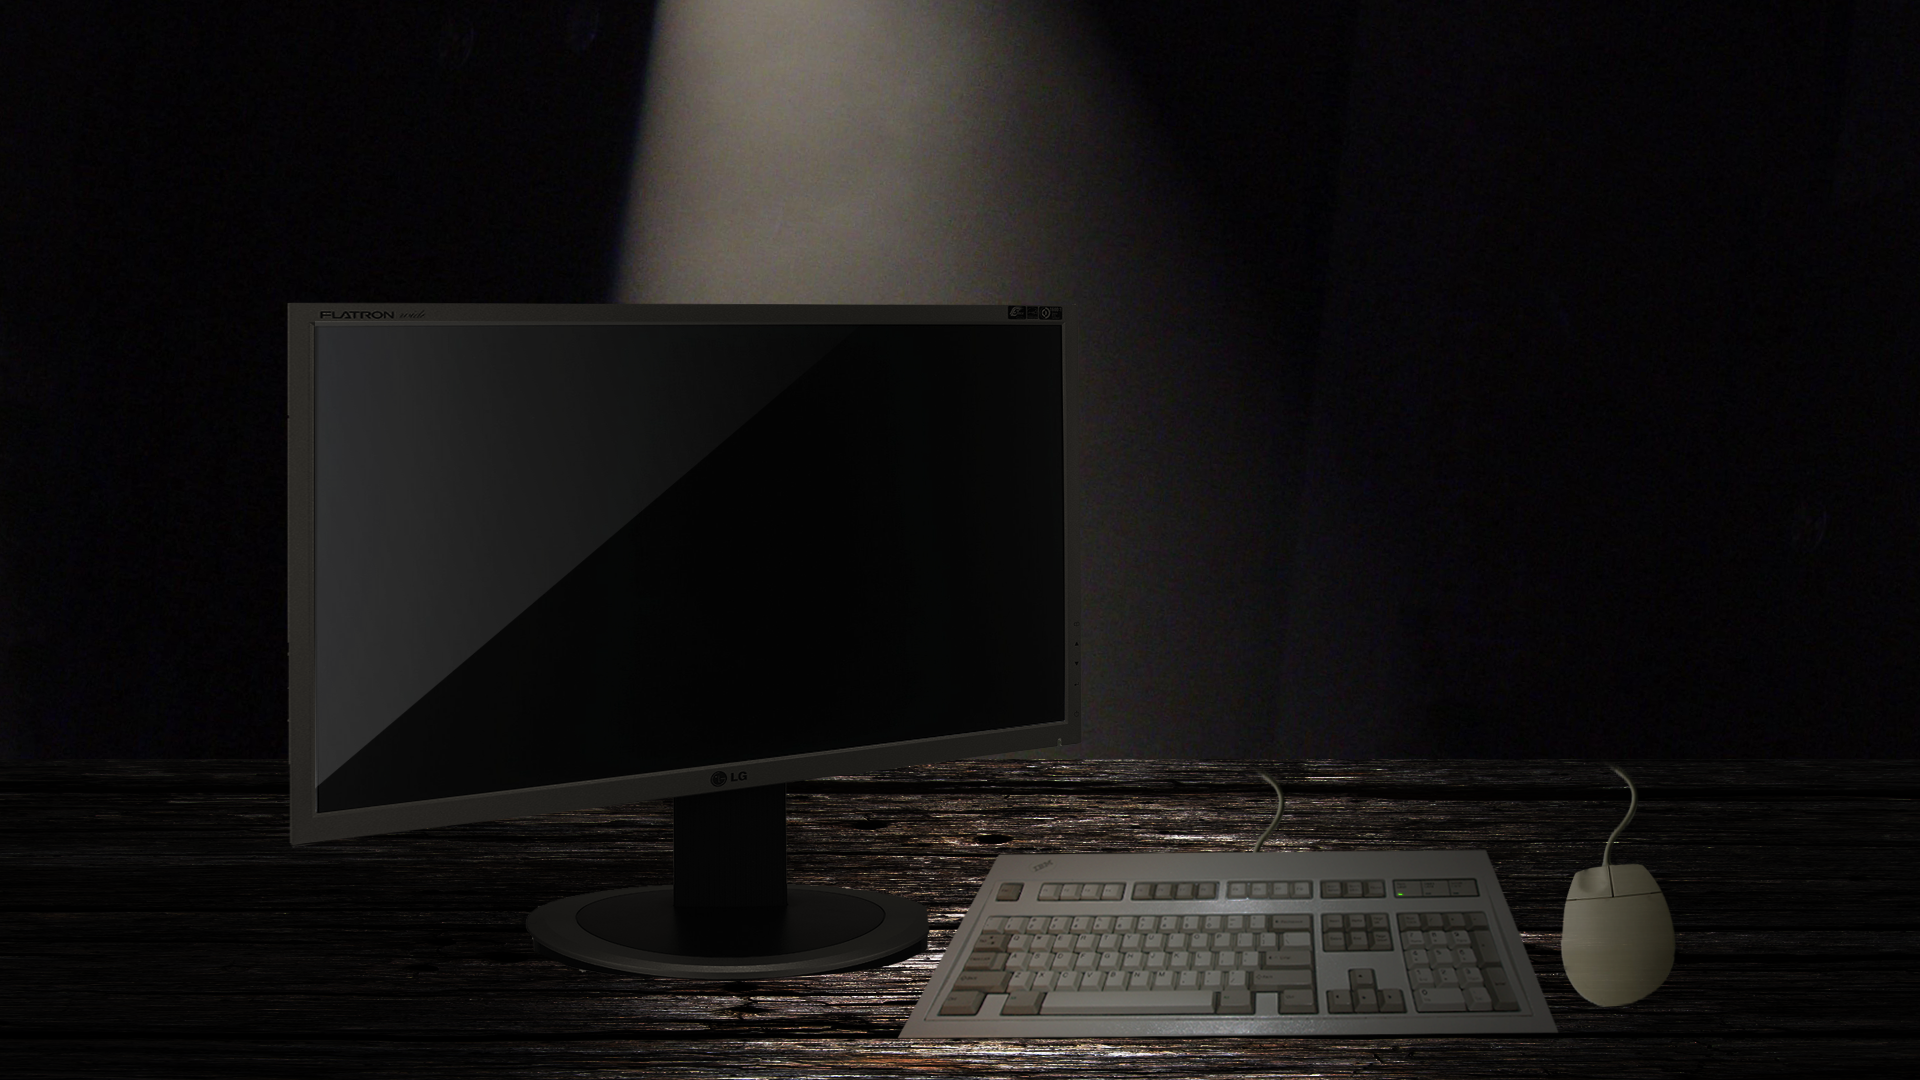
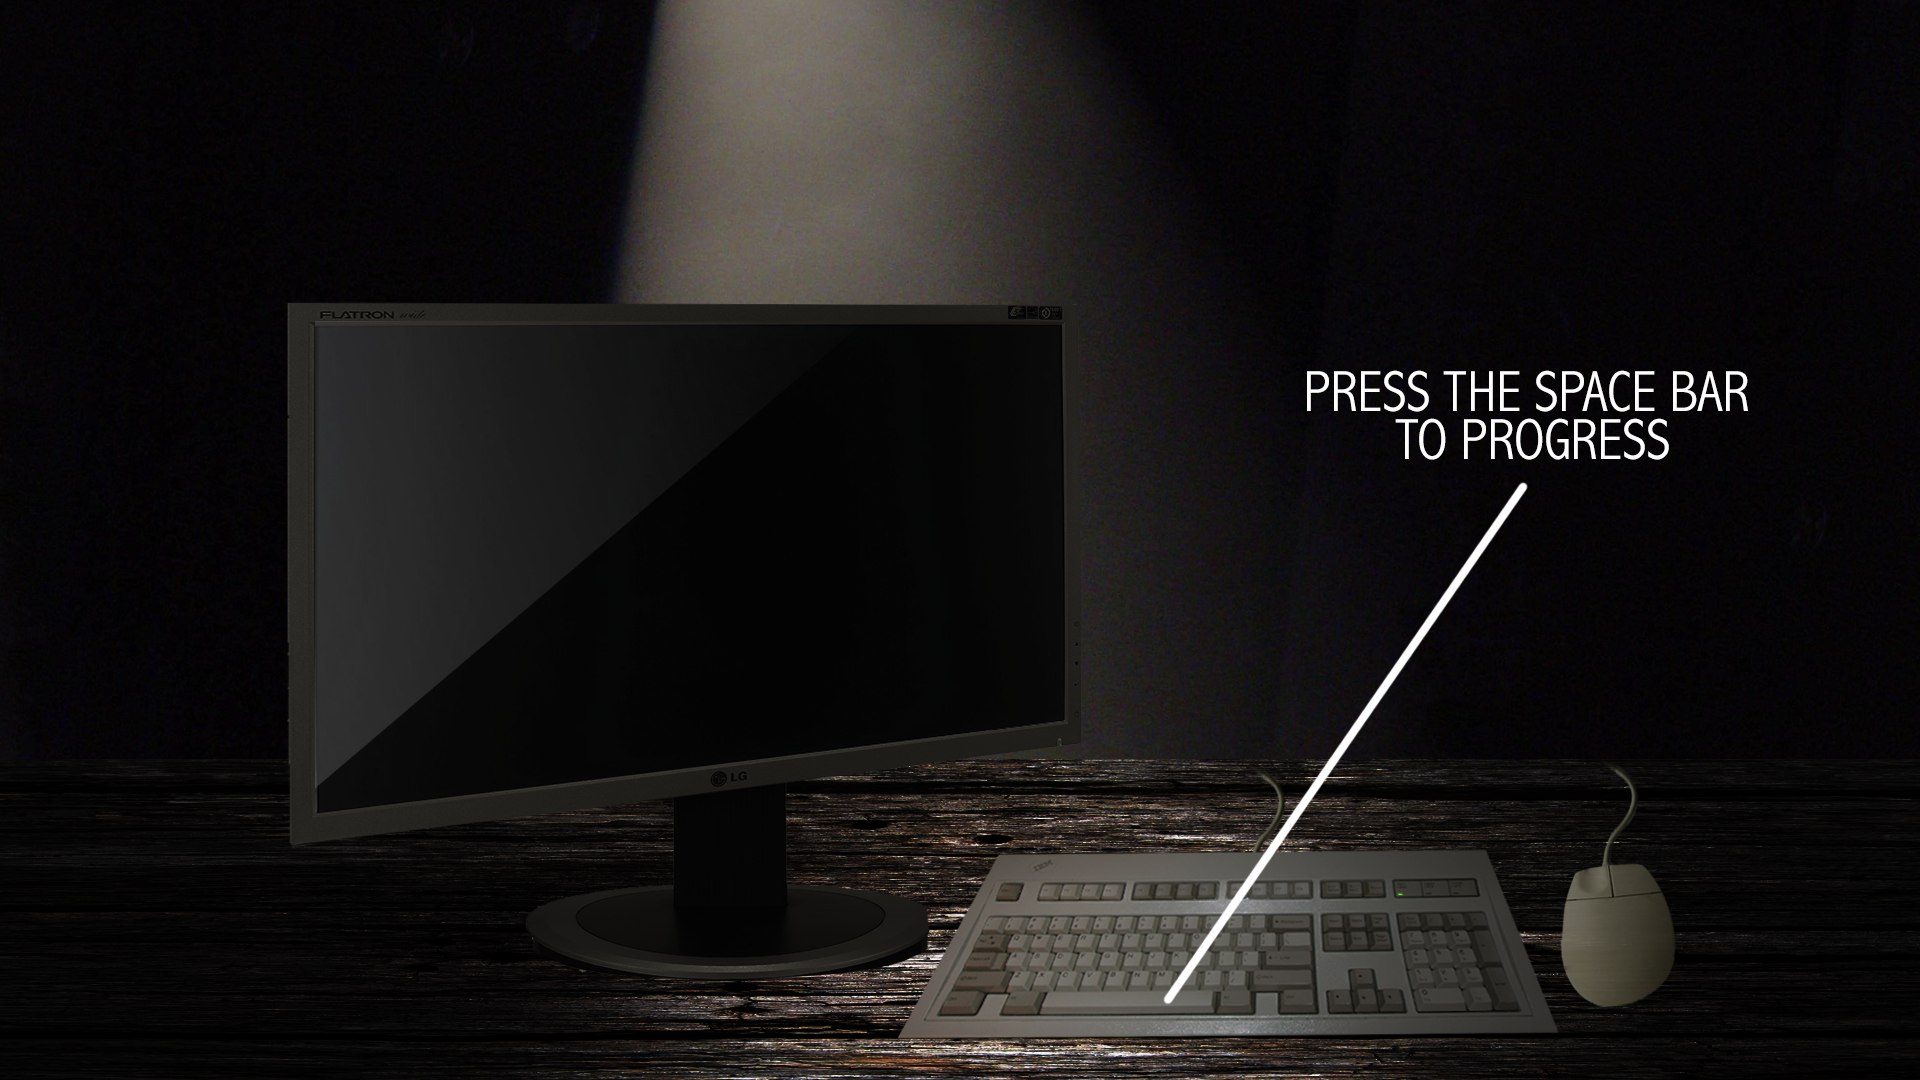
Updated tutorial images, tutorial script and scene too.

diff --git a/Game/Clued-Up/Assets/Scripts/Tutorial.cs b/Game/Clued-Up/Assets/Scripts/Tutorial.cs
@@ -1,0 +1,23 @@
+using System.Collections;
+using System.Collections.Generic;
+using UnityEngine;
+
+public class Tutorial : MonoBehaviour {
+	public GameObject tutorials;
+	public SceneTransitions sceneTransitions;
+
+	private int currentTutorial = 0;
+	
+	// Update is called once per frame
+	void Update () {
+		if (Input.GetKeyDown ("space")) {
+			if (currentTutorial < 4) {
+				currentTutorial++;
+				tutorials.transform.GetChild (currentTutorial).gameObject.SetActive (true);
+			} else {
+				sceneTransitions.startSceneTransition (0);
+			}
+		}
+		
+	}
+}
